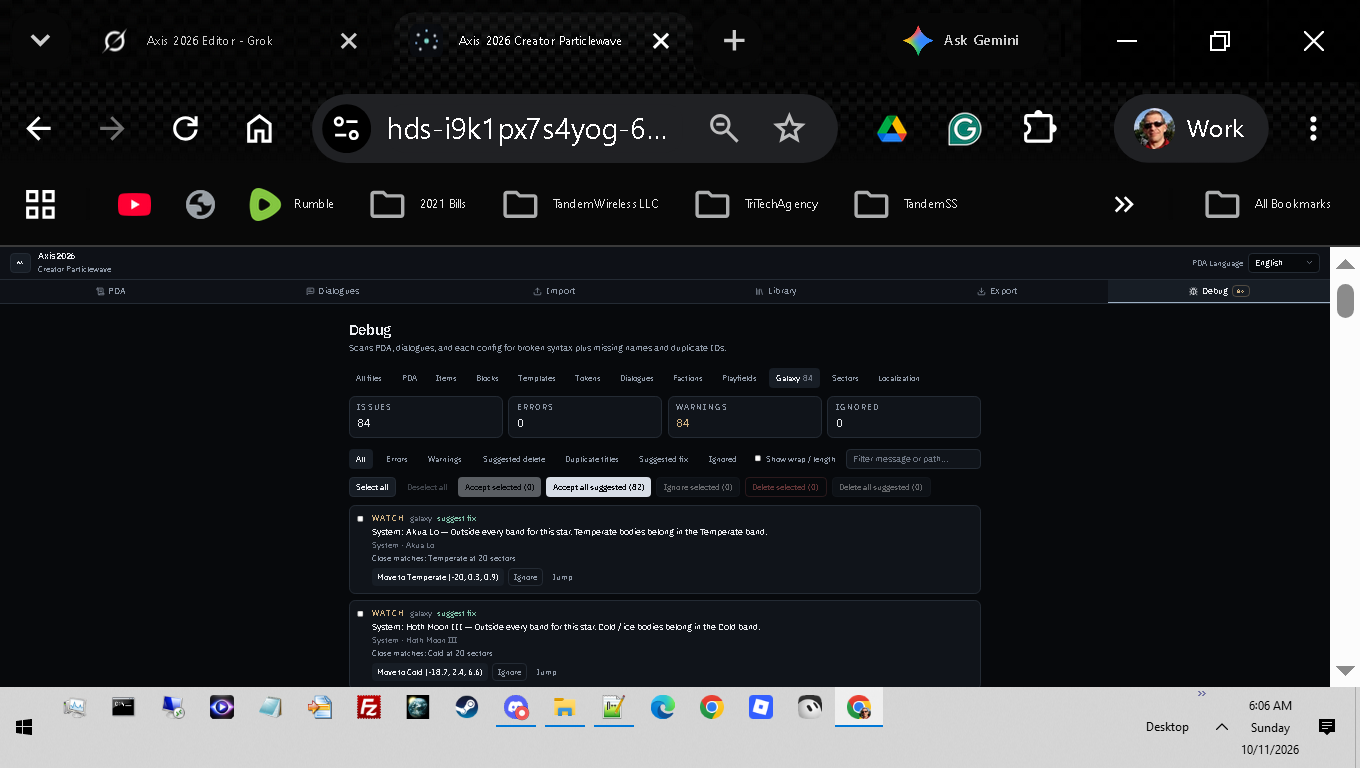
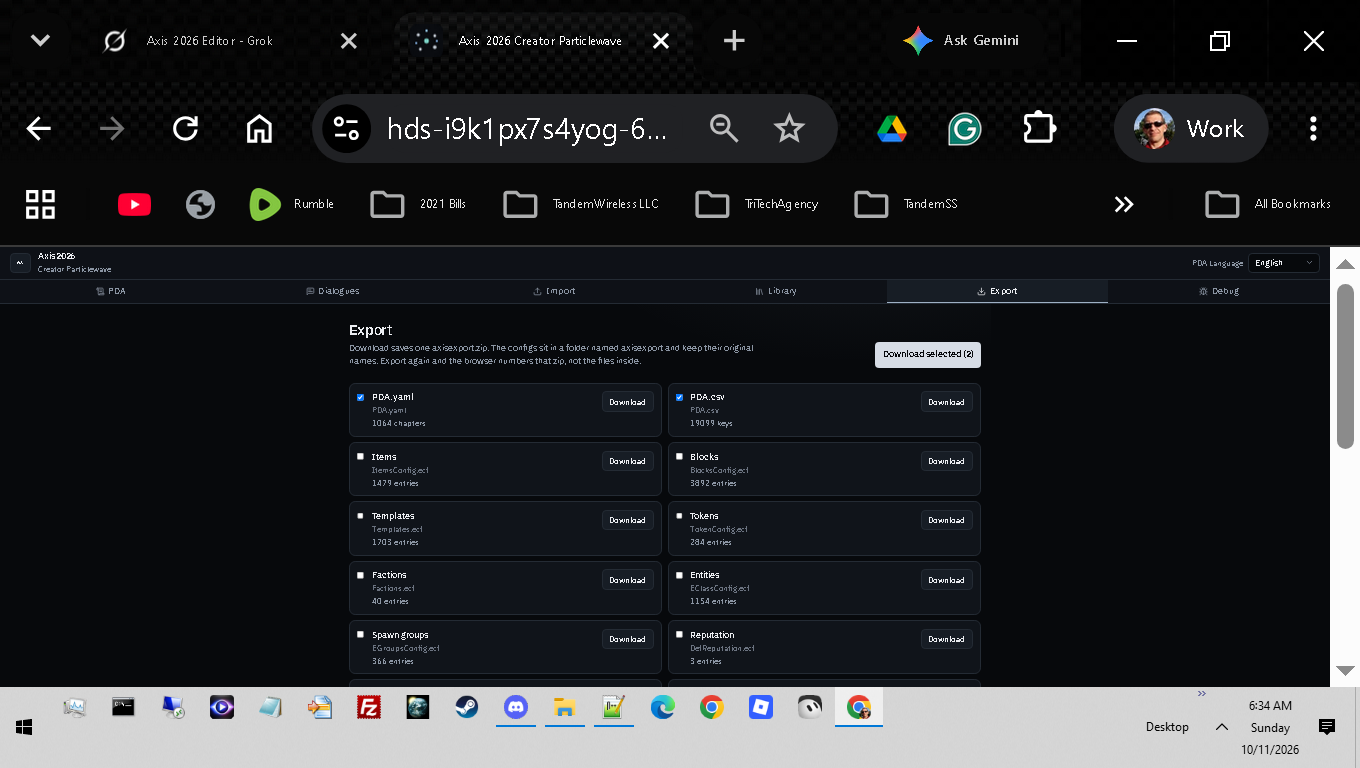
Export from Grok

diff --git a/src/components/export/export-page.tsx b/src/components/export/export-page.tsx
@@ -13,6 +13,11 @@ export function ExportPage() {
   );
 
   const selected = slots.filter((s) => s.ready && picked[s.id]);
+  const available = slots.filter((s) => s.ready);
+
+  const selectAvailable = () => {
+    setPicked(Object.fromEntries(available.map((slot) => [slot.id, true])));
+  };
 
   const downloadOne = (id: string) => {
     const slot = slots.find((s) => s.id === id);
@@ -36,9 +41,14 @@ export function ExportPage() {
               names. Export again and the browser numbers that zip, not the files inside.
             </p>
           </div>
-          <Button disabled={!selected.length} onClick={downloadSelected}>
-            Download selected ({selected.length})
-          </Button>
+          <div className="flex flex-wrap gap-2">
+            <Button variant="secondary" disabled={!available.length} onClick={selectAvailable}>
+              Select all available ({available.length})
+            </Button>
+            <Button disabled={!selected.length} onClick={downloadSelected}>
+              Download selected ({selected.length})
+            </Button>
+          </div>
         </div>
 
         <ul className="grid gap-2 sm:grid-cols-2">
